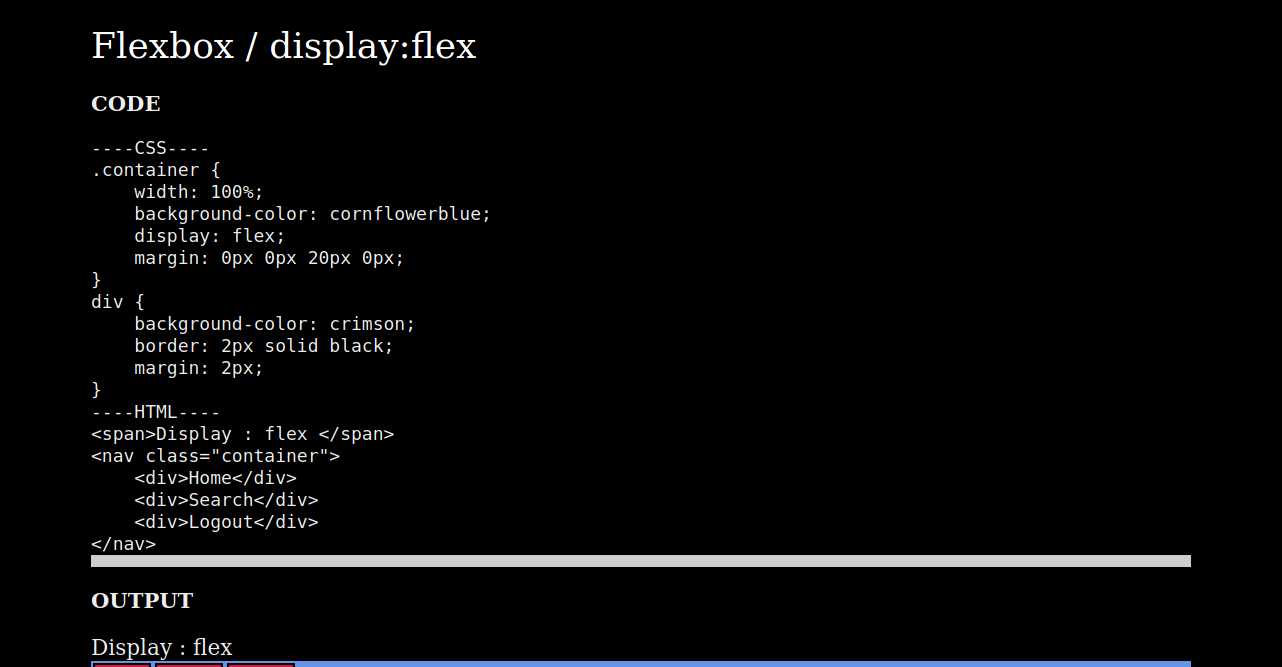
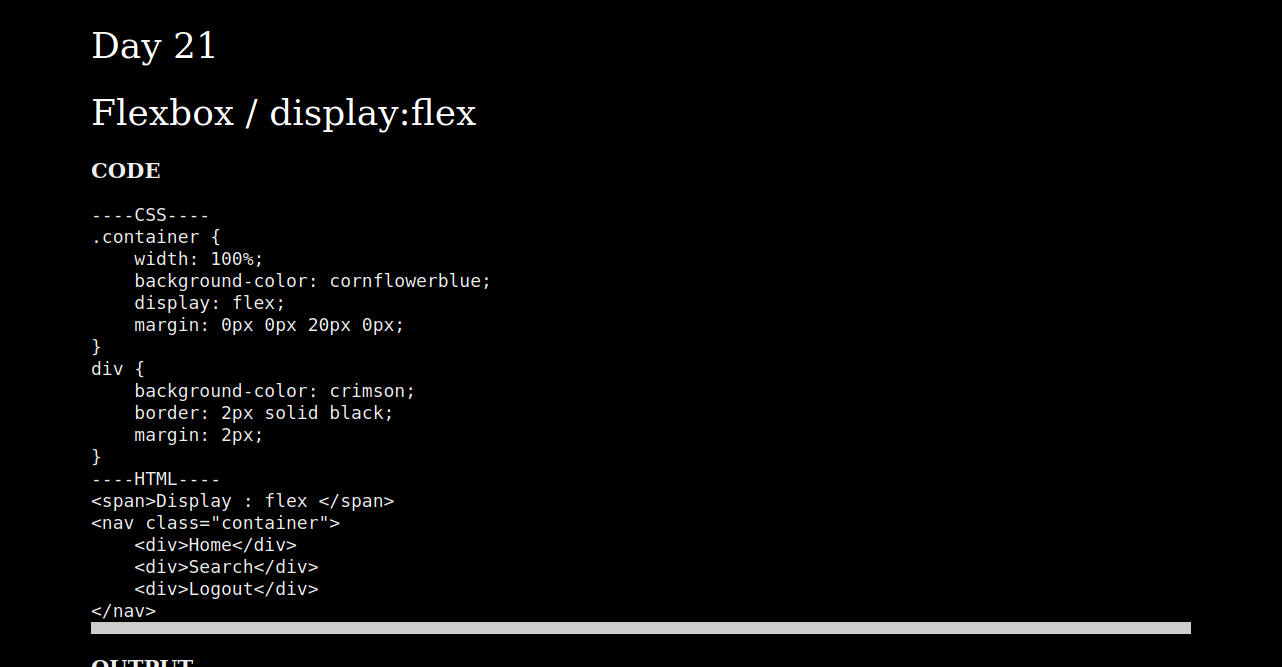
Screenshot

Changed region(s): [[0.0624, 0.1199, 0.936, 1.0], [0.0624, 0.03, 0.3744, 0.09]]

diff --git a/022/index.html b/022/index.html
@@ -78,6 +78,8 @@
     </style>
 </head>
 <body>
+    <h1>Day 22</h1>
+
     <h1>GRID LAYOUT</h1>
     <h1>display:Grid;</h1>
     <h3>CODE</h3>

diff --git a/021/index.html b/021/index.html
@@ -213,6 +213,8 @@
     </style>
 </head>
 <body>
+    <h1>Day 21</h1>
+    
     <h1>Flexbox / display:flex</h1>
     <h3>CODE</h3>
 <pre>
